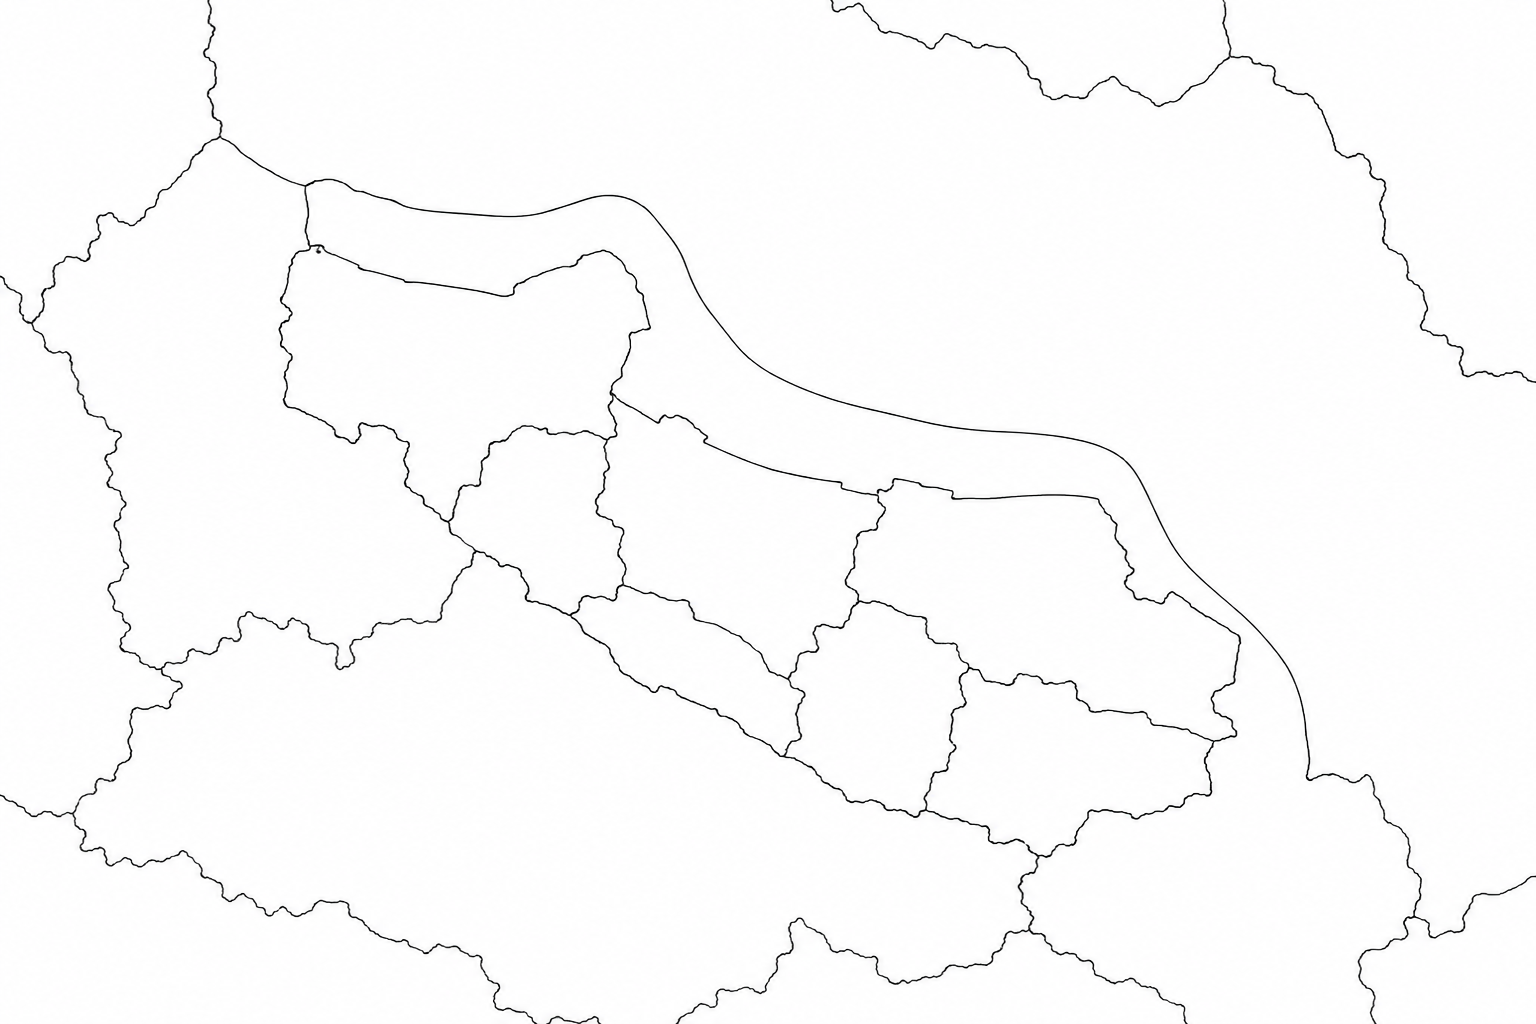
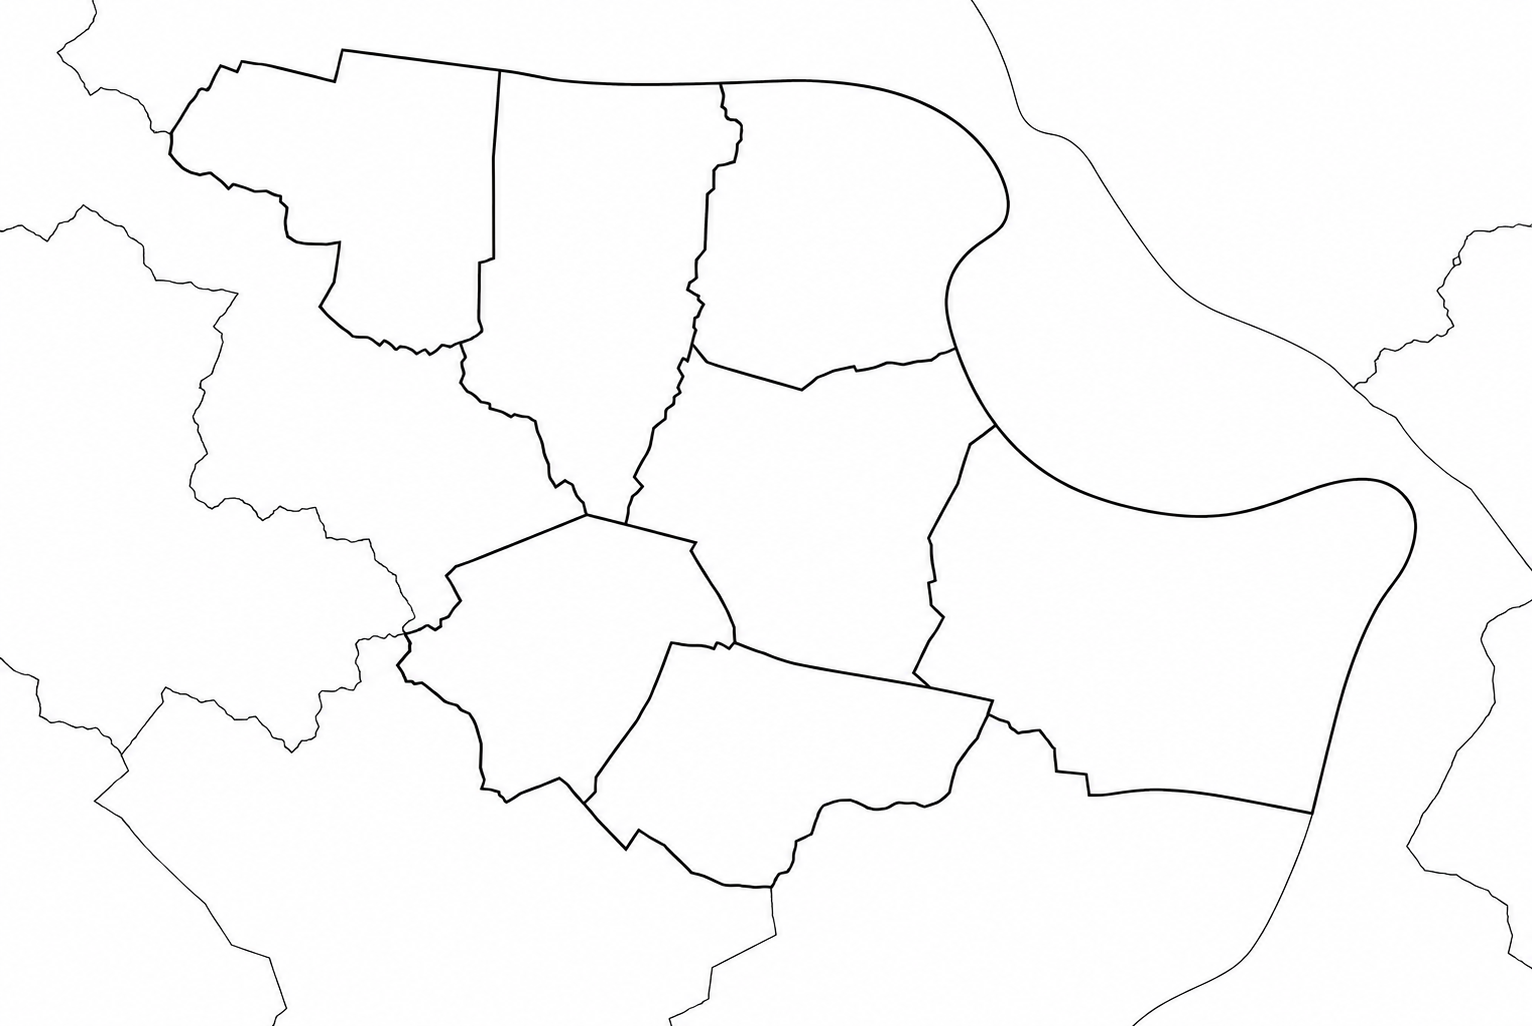
QRコードをトップレベルタブに移動・荒川マップ画像を更新
- QRタブをマップ・掲示板の横に配置、ログイン不要で閲覧可能
- AdminScreenからQRタブを削除
- public/arakawa-map.pngを新画像に差し替え

diff --git a/src/App.jsx b/src/App.jsx
@@ -5158,7 +5158,7 @@ export default function App() {
   const tabs = [];
   if (settings.showMap) tabs.push({ key: 'map', icon: '🗾', label: 'マップ' });
   if (settings.showBoard) tabs.push({ key: 'board', icon: '📋', label: '掲示板' });
-  if (isAdmin && adminLoggedIn && settings.showQR) tabs.push({ key: 'qr', icon: '📱', label: 'QR' });
+  if (settings.showQR) tabs.push({ key: 'qr', icon: '📱', label: 'QR' });
   if (isAdmin) tabs.push({ key: 'admin', icon: '⚙️', label: adminLoggedIn ? '管理' : '🔐 管理' });
 
   useEffect(() => {
@@ -5166,7 +5166,7 @@ export default function App() {
       setView(tabs[0]?.key || 'map');
     }
     // eslint-disable-next-line
-  }, [view, isAdmin, adminLoggedIn, settings.showQR, settings.showMap, settings.showBoard]);
+  }, [view, isAdmin, adminLoggedIn, settings.showMap, settings.showBoard, settings.showQR]);
 
   // 文字サイズ：管理画面のみ適用。スマホ（customer）はブラウザデフォルトのまま
   useEffect(() => {
@@ -5231,7 +5231,7 @@ export default function App() {
           settings={settings}
         />
       )}
-      {view === 'qr' && isAdmin && adminLoggedIn && <QRScreen/>}
+      {view === 'qr' && <QRScreen/>}
       {view === 'admin' && isAdmin && adminLoggedIn && (
         <AdminScreen
           posts={posts}